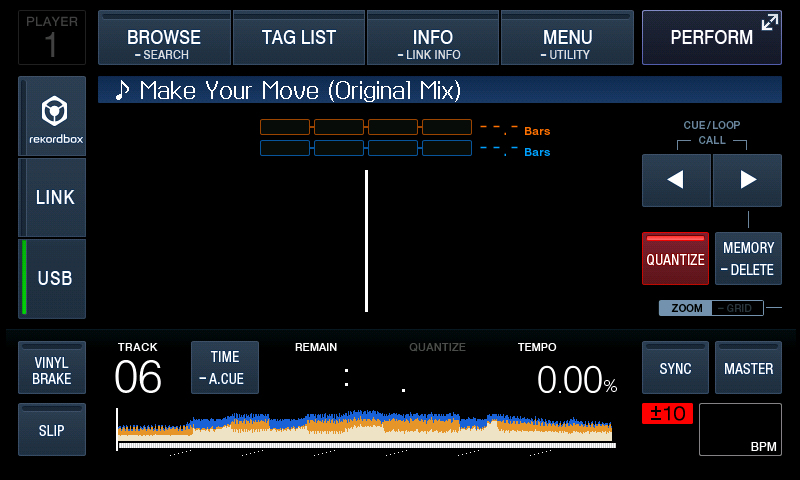
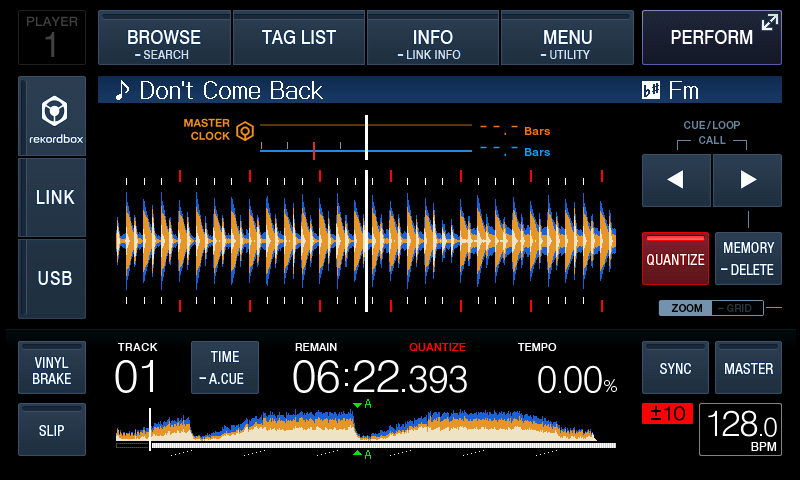
Gallery: real shots with the centre waveform drawn, and the settings wording fixed

diff --git a/site/index.html b/site/index.html
@@ -282,16 +282,16 @@ footer p { margin: 6px 0; max-width: 820px; }
     <p class="sub">Every picture below is the deck's own screen, captured from the emulator running your deck's firmware — not a mockup and not a drawing. Same pixels the XDJ-700 shows, with the mods switched on: the waveform colours, the themes, the PERFORM tabs and the extra settings all come from the same firmware you install.</p>
     <div class="shots">
       <figure class="shot">
-        <img src="shots/centre_rgb.png" alt="Make Your Move loaded on the XDJ-700 with a full-colour RGB waveform" width="800" height="480" loading="lazy">
-        <figcaption><b>RGB waveform.</b> Make Your Move in full colour — the waveform is drawn from the colour data rekordbox already exports.</figcaption>
+        <img src="shots/centre_rgb.png" alt="A track loaded on the XDJ-700 with a full-colour RGB centre waveform and coloured overview strip" width="800" height="480" loading="lazy">
+        <figcaption><b>RGB waveform.</b> The big centre waveform and the overview strip, both drawn in the track's own colours from the data rekordbox already exports.</figcaption>
       </figure>
       <figure class="shot">
-        <img src="shots/centre_3band.png" alt="The same track as a 3-band waveform in orange, blue and cream" width="800" height="480" loading="lazy">
-        <figcaption><b>3-band waveform.</b> The same track split into low, mid and high colours; switch styles on the deck in BROWSE › MENU › MY SETTINGS › [WAVEFORM] (or hold MENU › UTILITY › WAVEFORM COLOR).</figcaption>
+        <img src="shots/centre_3band.png" alt="A 3-band centre waveform in blue, orange and cream above a matching overview strip" width="800" height="480" loading="lazy">
+        <figcaption><b>3-band waveform.</b> The same centre waveform split into low, mid and high colours; switch styles on the deck in BROWSE › MENU › MY SETTINGS › [WAVEFORM] (or hold MENU › UTILITY › WAVEFORM COLOR).</figcaption>
       </figure>
       <figure class="shot">
-        <img src="shots/theme_hot_pink.png" alt="The deck with the Hot Pink theme and the RGB waveform strip" width="800" height="480" loading="lazy">
-        <figcaption><b>Hot Pink.</b> The interface follows the theme; the waveform keeps its own colours — the theme and the RGB waveform are separate mods.</figcaption>
+        <img src="shots/theme_hot_pink.png" alt="The deck in the Hot Pink theme, with the RGB centre waveform keeping its own colours" width="800" height="480" loading="lazy">
+        <figcaption><b>Hot Pink.</b> The interface follows the theme; the centre waveform keeps its own colours — the theme and the RGB waveform are separate mods.</figcaption>
       </figure>
       <figure class="shot">
         <img src="shots/perform_pads_hotcue.png" alt="The PERFORM page with the mod's tabs and hot cue pads" width="800" height="480" loading="lazy">
